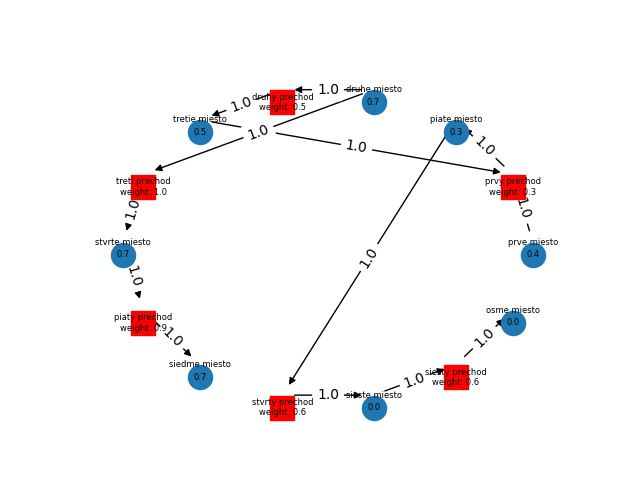
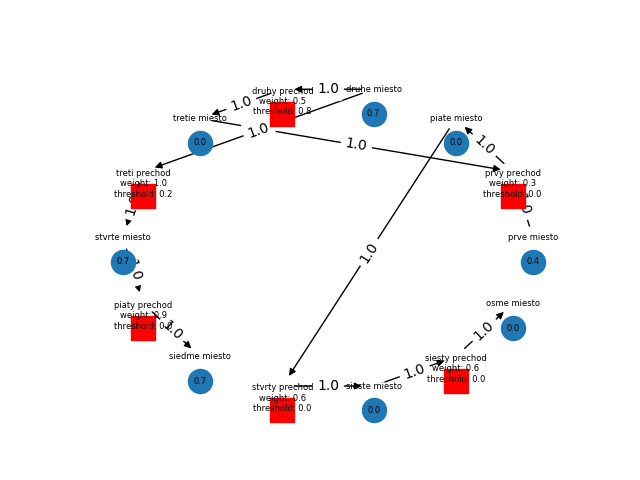
final gui for another window

diff --git a/main.py b/main.py
@@ -116,7 +116,6 @@ class MainAplication(QtWidgets.QMainWindow):
             self.main_layout.prevButton.setEnabled(False)
 
     # resize event
-    
     def resizeEvent(self, event):
         # setImage
         if len(self.image_dict)>0:
@@ -260,7 +259,6 @@ class MainAplication(QtWidgets.QMainWindow):
 
 
             if self.weights_flag:
-               
                 if len(self.net.weights) == 0:
                     self.net.weights = [0 for _ in range(len(self.dict_weights))]
                     for i, rank in enumerate(self.root.iter('transition')):
@@ -296,87 +294,6 @@ class MainAplication(QtWidgets.QMainWindow):
             self.run_fuzzy_with_weights_and_thresholds()
     
 
-    # TODO do this in qdesigner ???
-    def set_marking_initial1(self):
-        for place in self.net.getPlaces():
-            self.dict_places[place.label] = place.tokens
-        for transition in self.net.getTransitions():
-            self.dict_transitions[transition.getId()] = transition.label
-
-    
-        placesLayout = QtWidgets.QVBoxLayout()
-        placesLabel = QtWidgets.QLabel("Miesta")
-        placesLabel.setFont(QtGui.QFont("Arial", 11, QtGui.QFont.Bold))
-        placesLayout.addWidget(placesLabel) 
-
-        for i, key in enumerate(self.dict_places):
-            placeLabel = QtWidgets.QLabel(key)
-            placeLabel.setFont(QtGui.QFont("Arial", 10, QtGui.QFont.Bold))
-            entry = QtWidgets.QLineEdit()
-            self.dict_marks[key] = entry
-            placeLayout = QtWidgets.QHBoxLayout()
-            placeLayout.addWidget(placeLabel)
-            placeLayout.addWidget(entry)
-            placesLayout.addLayout(placeLayout)
-        okButton = QtWidgets.QPushButton("OK")
-        okButton.clicked.connect(lambda: [self.set_marking(self.dict_marks), self.delete_text(self.dict_marks)])
-        placesLayout.addWidget(okButton)
-        self.anotherWindow.main.addLayout(placesLayout)
-
-        transitionsLayout0 = QtWidgets.QVBoxLayout()
-        transitionsLabel0 = QtWidgets.QLabel("Prechody")
-        transitionsLabel0.setFont(QtGui.QFont("Arial", 11, QtGui.QFont.Bold))
-        transitionsLayout0.addWidget(transitionsLabel0)
-        for i, key in enumerate(self.dict_transitions):
-            transitionLabel0 = QtWidgets.QLabel(self.dict_transitions[key])
-            transitionLabel0.setFont(QtGui.QFont("Arial", 10, QtGui.QFont.Bold))
-            transitionLayout0 = QtWidgets.QHBoxLayout()
-            transitionLayout0.addWidget(transitionLabel0)
-            transitionsLayout0.addLayout(transitionLayout0)
-          
-        self.anotherWindow.main.addLayout(transitionsLayout0)
-        
-        if self.weights_flag or self.tresholds_flag:
-            weightsLayout = QtWidgets.QVBoxLayout()
-            weightsLabel = QtWidgets.QLabel("Váhy prechodov")
-            weightsLabel.setFont(QtGui.QFont("Arial", 11, QtGui.QFont.Bold))
-            weightsLayout.addWidget(weightsLabel)
-            for i, key in enumerate(self.dict_transitions):
-                weightLabel = QtWidgets.QLabel(self.dict_transitions[key])
-                weightLabel.setFont(QtGui.QFont("Arial", 10, QtGui.QFont.Bold))
-                entry2 = QtWidgets.QLineEdit()
-                self.dict_weights[key] = entry2
-                weightLayout = QtWidgets.QHBoxLayout()
-                weightLayout.addWidget(weightLabel)
-                weightLayout.addWidget(entry2)
-                weightsLayout.addLayout(weightLayout)
-            okButton2 = QtWidgets.QPushButton("OK")
-            okButton2.clicked.connect(lambda: [self.set_weights(self.dict_weights), self.delete_text(self.dict_weights)])
-            weightsLayout.addWidget(okButton2)
-            self.anotherWindow.main.addLayout(weightsLayout)
-
-        if self.tresholds_flag:
-            transitionsLayout = QtWidgets.QVBoxLayout()
-            transitionsLabel = QtWidgets.QLabel("Prahy prechodov")
-            transitionsLabel.setFont(QtGui.QFont("Arial", 11, QtGui.QFont.Bold))
-            transitionsLayout.addWidget(transitionsLabel)
-            
-            for i, key in enumerate(self.dict_transitions):
-                transitionLabel = QtWidgets.QLabel(self.dict_transitions[key])
-                transitionLabel.setFont(QtGui.QFont("Arial", 10, QtGui.QFont.Bold))
-                if self.tresholds_flag:
-                    entry3 = QtWidgets.QLineEdit()
-                    self.dict_tresholds[key] = entry3
-                    transitionLayout = QtWidgets.QHBoxLayout()
-                    transitionLayout.addWidget(transitionLabel)
-                    transitionLayout.addWidget(entry3)
-                    transitionsLayout.addLayout(transitionLayout)
-            okButton3 = QtWidgets.QPushButton("OK")
-            okButton3.clicked.connect(lambda: [self.set_tresholds(self.dict_tresholds), self.delete_text(self.dict_tresholds)])
-            transitionsLayout.addWidget(okButton3)
-            self.anotherWindow.main.addLayout(transitionsLayout)
-
-
     def set_marking_initial(self):
         for place in self.net.getPlaces():
             self.dict_places[place.label] = place.tokens
@@ -384,50 +301,60 @@ class MainAplication(QtWidgets.QMainWindow):
             self.dict_transitions[transition.getId()] = transition.label
         placesLayout = QtWidgets.QVBoxLayout()
         self.anotherWindow.placesWidget.setLayout(placesLayout)
-        # Iterate over the dictionary and add each QLabel and QLineEdit to a QHBoxLayout
         for i, key in enumerate(self.dict_places):
             placeLabel = QtWidgets.QLabel(key)
             placeLabel.setFont(QtGui.QFont("Arial", 10, QtGui.QFont.Bold))
             entry = QtWidgets.QLineEdit()
+            entry.setMaximumWidth(50)
             self.dict_marks[key] = entry
-            placeLayout = QtWidgets.QHBoxLayout()
+            placeLayout = QtWidgets.QVBoxLayout()
             placeLayout.addWidget(placeLabel)
             placeLayout.addWidget(entry)
+            placeLayout.addStretch()
             placesLayout.addLayout(placeLayout)
 
-        # Set the QWidget as the widget for the QScrollArea
+
         self.anotherWindow.placesScrollArea.setWidget(self.anotherWindow.placesWidget)
         self.anotherWindow.OK1.clicked.connect(lambda: [self.set_marking(self.dict_marks), self.delete_text(self.dict_marks)])
-        
         if self.fuzzy_flag and not self.weights_flag and not self.tresholds_flag:
+            self.anotherWindow.OK2.hide()
+            self.anotherWindow.OK3.setDisabled(True)
             weightsLayout = QtWidgets.QVBoxLayout()
             self.anotherWindow.weightsWidget.setLayout(weightsLayout)
             self.anotherWindow.weight.setText("Prechody")
             for i, key in enumerate(self.dict_transitions):
                 transitionLabel0 = QtWidgets.QLabel(self.dict_transitions[key])
                 transitionLabel0.setFont(QtGui.QFont("Arial", 10, QtGui.QFont.Bold))
-                weightLayout = QtWidgets.QHBoxLayout()
+                weightLayout = QtWidgets.QVBoxLayout()
                 weightLayout.addWidget(transitionLabel0)
                 weightsLayout.addLayout(weightLayout)
             self.anotherWindow.weightsScrollArea.setWidget(self.anotherWindow.weightsWidget)
-            self.anotherWindow.OK2.hide()
-        
-        if self.weights_flag or self.tresholds_flag:
+            
+        if self.weights_flag:
+            self.anotherWindow.OK3.setDisabled(True)
+            self.anotherWindow.OK2.show()
+            self.anotherWindow.weight.setText("Váhy prechodov")
             weightsLayout = QtWidgets.QVBoxLayout()
+            self.anotherWindow.weightsWidget = QtWidgets.QWidget()
             self.anotherWindow.weightsWidget.setLayout(weightsLayout)
             for i, key in enumerate(self.dict_transitions):
                 weightLabel = QtWidgets.QLabel(self.dict_transitions[key])
                 weightLabel.setFont(QtGui.QFont("Arial", 10, QtGui.QFont.Bold))
                 entry2 = QtWidgets.QLineEdit()
+                entry2.setMaximumWidth(50)
                 self.dict_weights[key] = entry2
-                weightLayout = QtWidgets.QHBoxLayout()
+                weightLayout = QtWidgets.QVBoxLayout()
                 weightLayout.addWidget(weightLabel)
                 weightLayout.addWidget(entry2)
+                weightLayout.addStretch()
                 weightsLayout.addLayout(weightLayout)
             self.anotherWindow.weightsScrollArea.setWidget(self.anotherWindow.weightsWidget)
             self.anotherWindow.OK2.clicked.connect(lambda: [self.set_weights(self.dict_weights), self.delete_text(self.dict_weights)])
         
         if self.tresholds_flag:
+            self.anotherWindow.OK2.show()
+            self.anotherWindow.OK2.setDisabled(False)
+            self.anotherWindow.OK3.setDisabled(False)
             tresholdsLayout = QtWidgets.QVBoxLayout()
             self.anotherWindow.tresholdsWidget = QtWidgets.QWidget()
             self.anotherWindow.tresholdsWidget.setLayout(tresholdsLayout)
@@ -435,10 +362,12 @@ class MainAplication(QtWidgets.QMainWindow):
                 transitionLabel = QtWidgets.QLabel(self.dict_transitions[key])
                 transitionLabel.setFont(QtGui.QFont("Arial", 10, QtGui.QFont.Bold))
                 entry3 = QtWidgets.QLineEdit()
+                entry3.setMaximumWidth(50)
                 self.dict_tresholds[key] = entry3
-                transitionLayout = QtWidgets.QHBoxLayout()
+                transitionLayout = QtWidgets.QVBoxLayout()
                 transitionLayout.addWidget(transitionLabel)
                 transitionLayout.addWidget(entry3)
+                transitionLayout.addStretch()
                 tresholdsLayout.addLayout(transitionLayout)
             self.anotherWindow.tresholdsScrollArea.setWidget(self.anotherWindow.tresholdsWidget)
             self.anotherWindow.OK3.clicked.connect(lambda: [self.set_tresholds(self.dict_tresholds), self.delete_text(self.dict_tresholds)])
@@ -448,15 +377,49 @@ class MainAplication(QtWidgets.QMainWindow):
             value.setText("")
 
     def set_marking(self, entries):
-        self.net.M0 = [float(value.text()) if value.text() != '' else 0.0 for _,value in entries.items()]
+        M0 = []
+        for _, value in entries.items():
+            if value.text() == '':
+                M0.append(0.0)
+            else:
+                try:
+                    num = float(value.text().replace(',', '.'))
+                    M0.append(num)
+                except ValueError:
+                    QtWidgets.QMessageBox.warning(self, "Invalid Input", "Please enter a valid number.")
+                    return
+        
+        self.net.M0 = M0
 
     def set_tresholds(self,entries):
-        if entries.items():
-            self.net.tresholds = [float(value.text()) if value.text() != '' else 0.0 for _,value in entries.items()]
-            self.TR = self.net.tresholds
+        tresholds = []
+        for _, value in entries.items():
+            if value.text() == '':
+                tresholds.append(0.0)
+            else:
+                try:
+                    num = float(value.text().replace(',', '.'))
+                    tresholds.append(num)
+                except ValueError:
+                    QtWidgets.QMessageBox.warning(self, "Invalid Input", "Please enter a valid number.")
+                    return
+            
+        self.net.tresholds = tresholds
+        self.TR = tresholds
 
     def set_weights(self, entries):
-        self.net.weights = [float(value.text()) if value.text() != '' else 0.0 for _,value in entries.items()]
+        weights = []
+        for _, value in entries.items():
+            if value.text() == '':
+                weights.append(0.0)
+            else:
+                try:
+                    num = float(value.text().replace(',', '.'))
+                    weights.append(num)
+                except ValueError:
+                    QtWidgets.QMessageBox.warning(self, "Invalid Input", "Please enter a valid number.")
+                    return       
+        self.net.weights = weights
 
 
     def prev(self):
